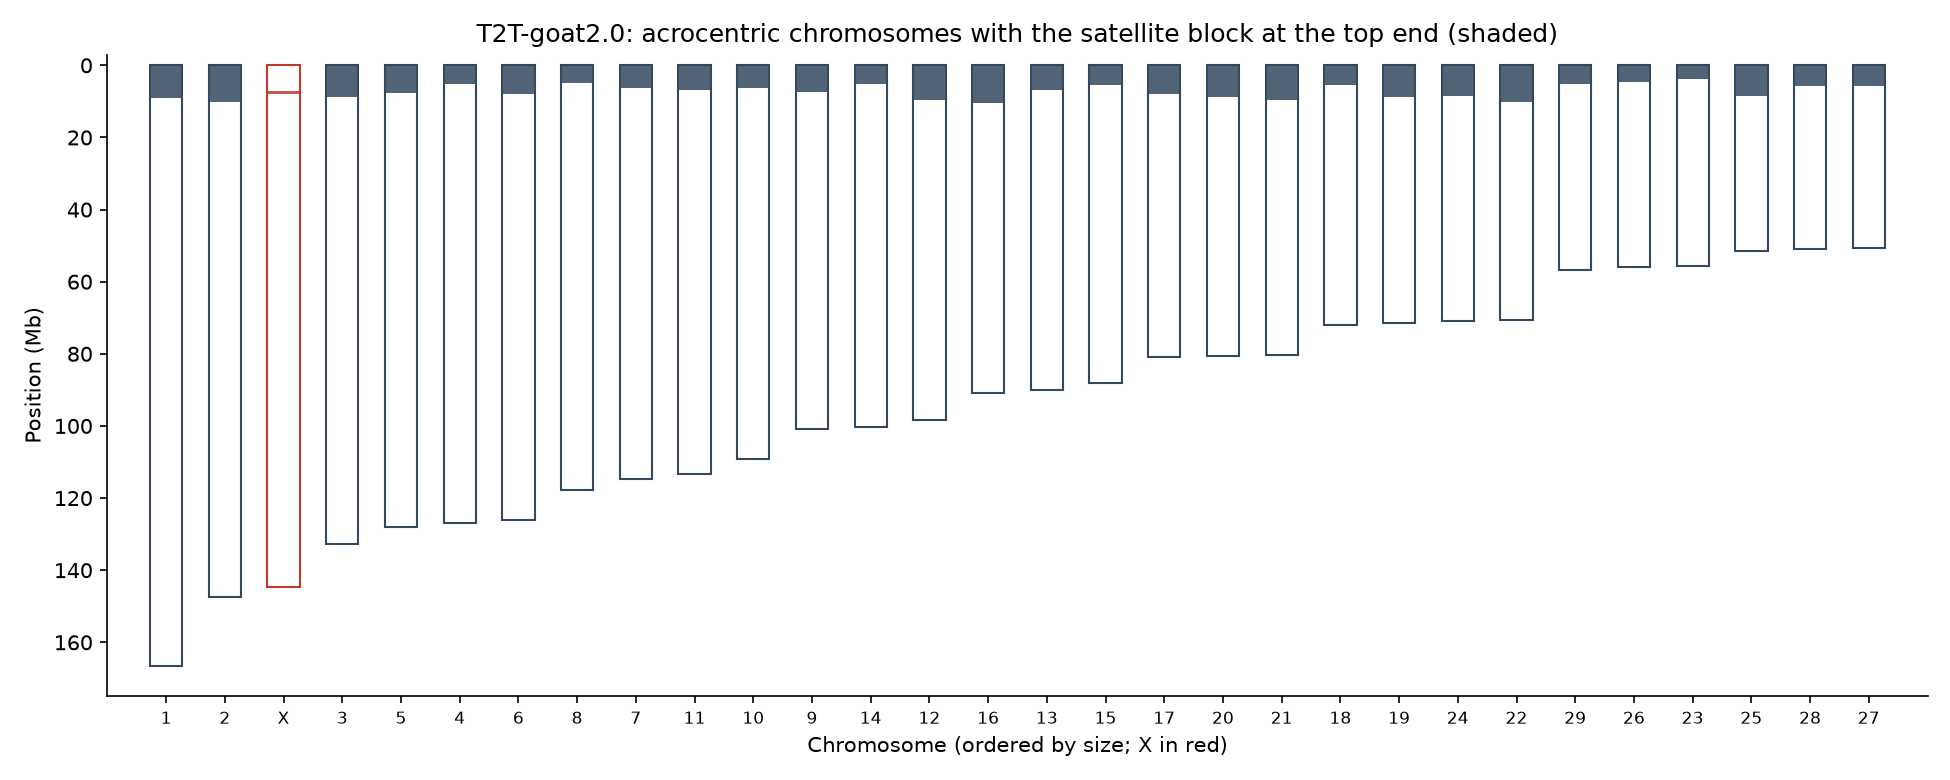
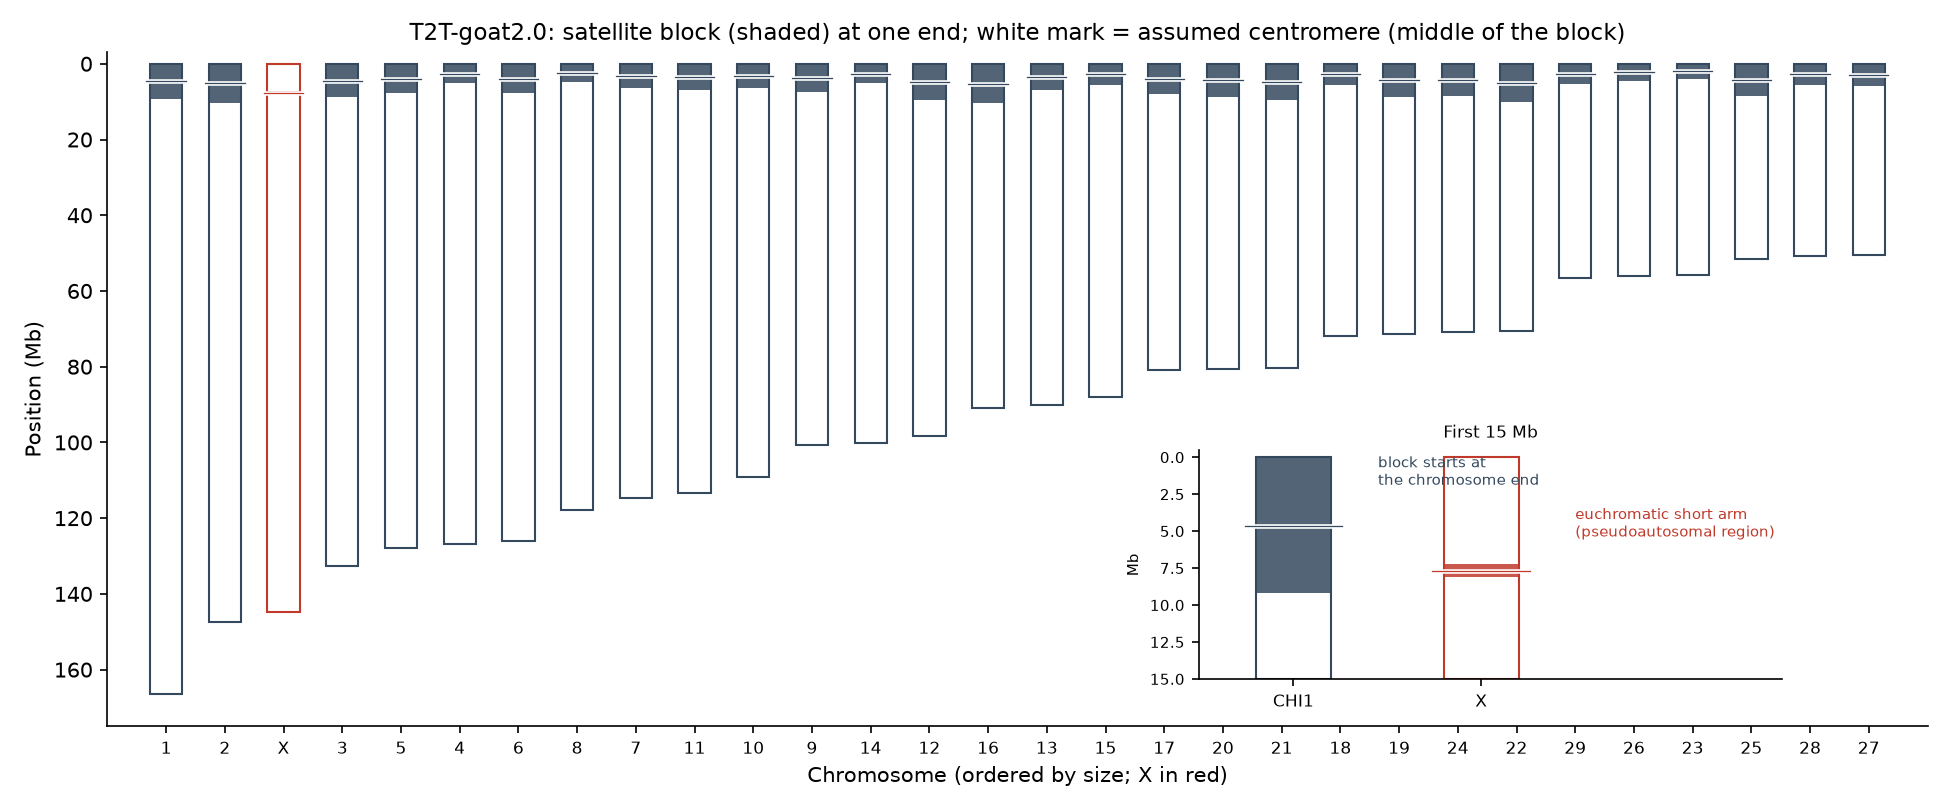
Show the centromere position as an assumption in the idiogram and karyotype table, and fix the acrocentric wording

diff --git a/README.md b/README.md
@@ -29,7 +29,7 @@ It is a question about experimental design, answered by simulation. It is split 
 
 - It does not predict which C-band a real goat would show. There are no public cytogenetic measurements of this animal.
 - It does not measure the functional centromere (CENP-A). The "centromere" is the satellite block of the sequence repository, an operational definition. The functional domain may be much more stable between haplotypes than the satellite array, so a large difference in the array does not imply one in the functional centromere.
-- The goat is acrocentric in all autosomes and in the X, so centromeric index and arm ratio carry almost no information. They get one table and one sentence.
+- It does not tell whether the goat chromosomes are acrocentric or telocentric. The literature calls them acrocentric (a very short arm). The sequence only shows that the satellite block starts less than 0.05 Mb from the end of every autosome, so there is no resolvable euchromatic short arm. The centromere position inside the block is not measured, so the centromeric index, the arm ratio and the Levan class are given as "if the centromere is at the middle of the block", an assumption. The X is the one case with a real short arm.
 - Sensitivity, specificity and power describe the simulated design under the stated assumptions, not the real world.
 
 ## The main caution
@@ -46,10 +46,10 @@ All three stages are done and executed. Not yet done: a check of K, F and the op
 
 ![Idiogram of T2T-goat2.0](figures/idiogram_T2T.png)
 
-*Idiogram of the 30 chromosomes of T2T-goat2.0 (ordered by size, X in red): the shaded part is the satellite block, the operational centromere. It marks where heterochromatin could be, not a prediction of a real band.*
+*Idiogram of the 30 chromosomes of T2T-goat2.0 (ordered by size, X in red). The shaded part is the satellite block (the operational centromere); the white mark is the assumed centromere, placed at the middle of the block because the sequence does not locate it. The inset shows the first 15 Mb of CHI1 and of the X: the block of an autosome starts at the chromosome end, while the X has a euchromatic short arm of about 7 Mb. It is a map of where heterochromatin could be, not a prediction of a real band.*
 
 Stage 1, from the frozen tables (`data/outputs/karyotype_inferred.csv`, `expected_heteromorphisms.csv`):
-- All 29 autosomes and the X are terminal (acrocentric) in every haplotype (arm ratio above 10). The X is the only chromosome with a real short arm: its satellite block starts 7.2 Mb from the end, and its centromeric index is 0.053.
+- In all 29 autosomes of every haplotype the satellite block starts less than 0.05 Mb from the end of the chromosome, so there is no resolvable euchromatic short arm. With the centromere assumed at the middle of the block the arm ratio is above 10 and the Levan class is "terminal", which is compatible with both acrocentric and telocentric; the position of the centromere inside the block is not measured. The X is the only chromosome with a real short arm: about 7 Mb of euchromatin (the pseudoautosomal region) before its block, which starts 7.2 Mb from the end.
 - Expected heteromorphism, as the median |ln ratio| of the block between the two homologs: 0.37 in IMCG P/M (16 usable pairs) and 0.17 in KikoP/SaanenM (29 usable pairs, labelled "between breeds"). In the rest of the chromosome the same measure is about 0.001-0.002.
 - The IMCG pairs are few because 13 of the 29 are incomplete or `low_satellite` in at least one haplotype.
 

diff --git a/docs/ASSUMPTIONS.md b/docs/ASSUMPTIONS.md
@@ -23,6 +23,10 @@ A 2025 volume electron microscopy study of human RPE1 cells ([J Cell Biol 223:e2
 
 Goat karyotype papers describe the C-band as centromeric, or at the proximal part of the long arm, in all autosomes, without measuring its size. The X and Y are described as C-negative in one study. F is therefore not constrained.
 
+## Position of the centromere inside the block
+
+The sequence gives the satellite block, not the functional centromere (CENP-A), which can be anywhere inside a block of 1-10 Mb. The karyotype table and the idiogram place the centromere at the **middle of the block**. This is an **assumption** and it matters only for the centromeric index, the arm ratio, the Levan class and the white mark of the idiogram (`levan_if_block_mid`); the heteromorphism and simulation results use block lengths and do not depend on it. The measured fact is that the autosomal blocks start less than 0.05 Mb from the chromosome end. Whether the chromosomes are then called acrocentric or telocentric depends on this assumption and cannot be settled from the sequence.
+
 ## Fixed assumptions
 
 These stay fixed in every scenario and are listed so they can be challenged. Each is an assumption with no data behind it unless said otherwise.
